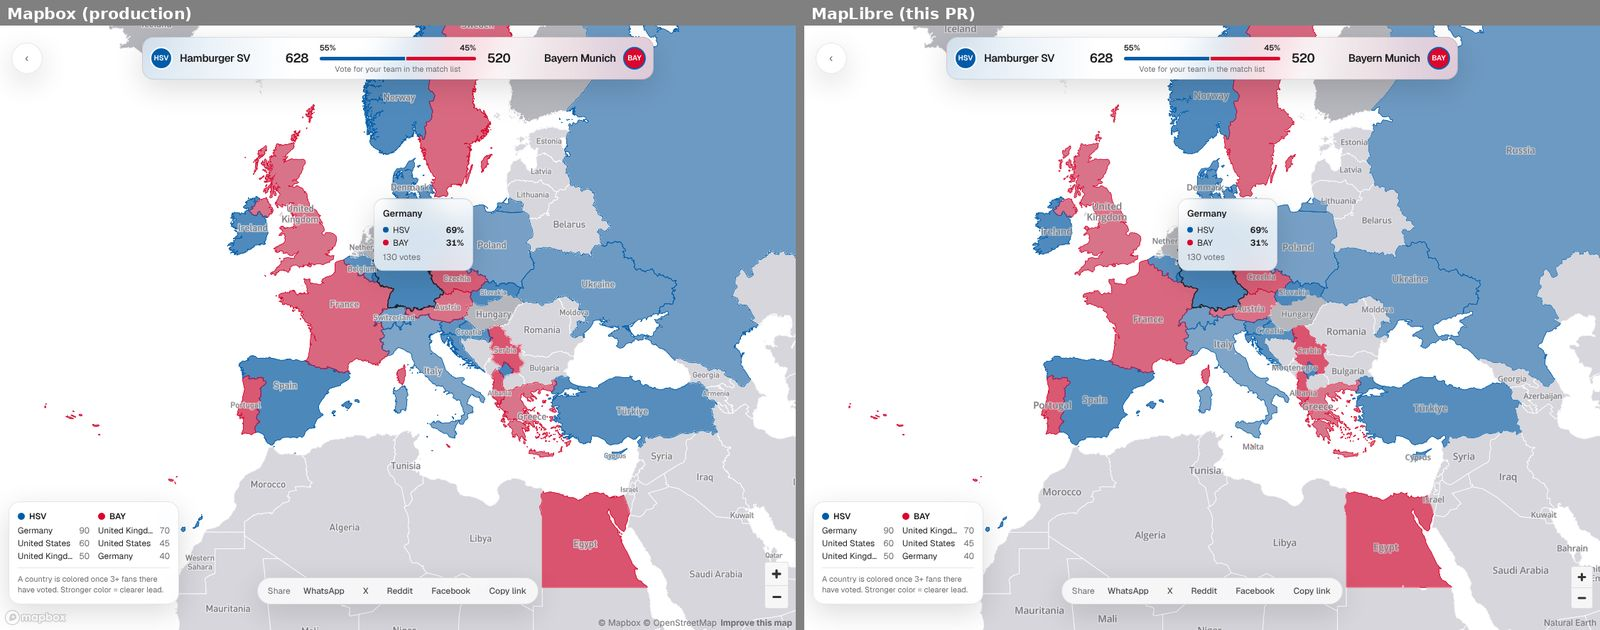
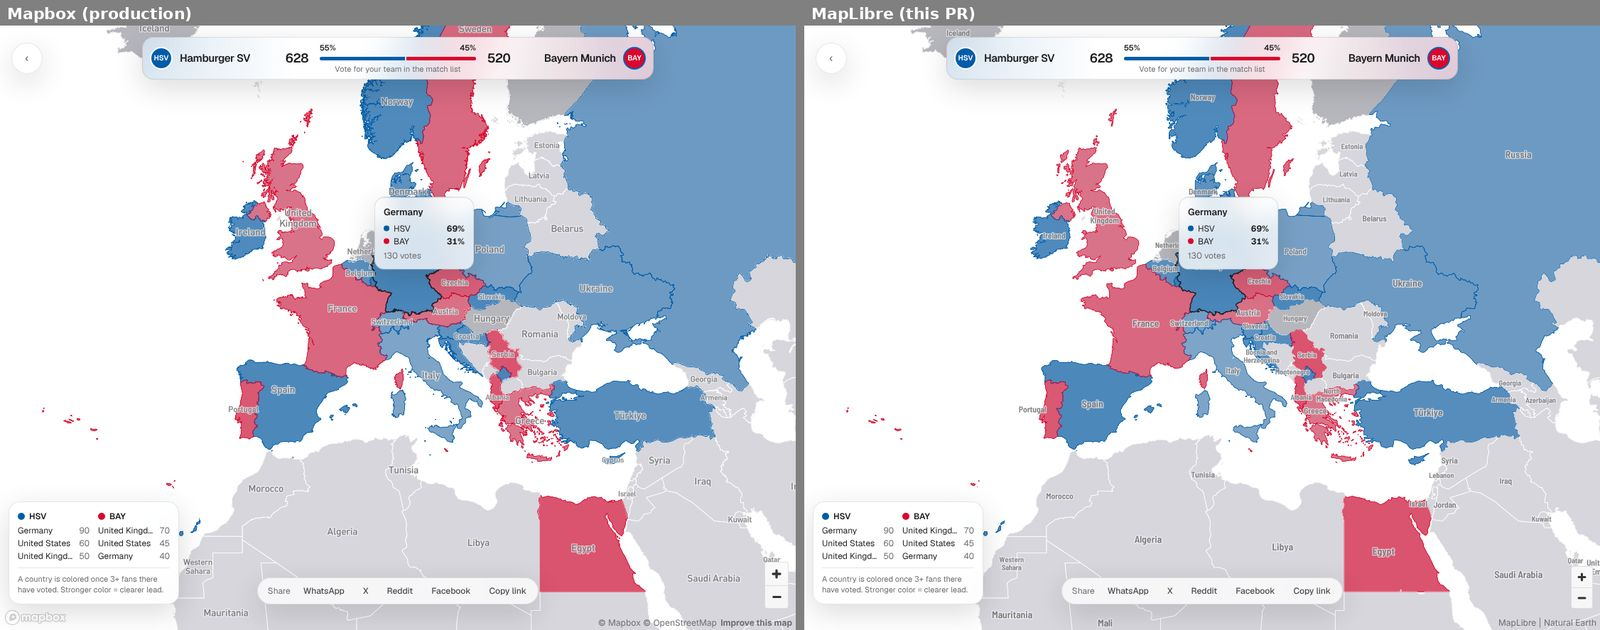
Document the MapLibre switch: measurements, label lists, screenshots, decisions
Claude-Session: https://claude.ai/code/session_01CDpvyX1Uny65vNrPLYM7iE

diff --git a/docs/maplibre-comparison/README.md b/docs/maplibre-comparison/README.md
@@ -1,19 +1,23 @@
-# Mapbox vs MapLibre: snímky z 2026-11-26
+# Mapbox vs MapLibre: snímky a nástroje
 
-Každý obrázok: vľavo **Mapbox** (produkcia, vetva `main`), vpravo **MapLibre** (vetva `maplibre-alt`, `NEXT_PUBLIC_MAP_ENGINE=maplibre`). Zápas Hamburger SV – Bayern Munich, rovnaká veľkosť okna, rovnaké priblíženie (dvojklik na to isté miesto).
+Snímky z 2026-11-26 (fáza 1 prechodu na MapLibre). Na každom obrázku je vľavo **Mapbox** (produkcia) a vpravo **MapLibre** (vetva `maplibre-default`). Zápas Hamburger SV – Bayern Munich, rovnaká veľkosť okna, rovnaké priblíženie (dvojklik na to isté miesto).
 
-- `real-votes-*` — skutočné hlasy z databázy. Pre tento zápas sú to 2 hlasy zo Slovenska, čo je pod prahom 3 (`MIN_VOTES_TO_COLOR`), takže Slovensko je šedé („nerozhodnuté“) v oboch verziách.
-- `demo-*` — **ukážkové výsledky** (54 krajín vrátane Luxemburska, Malty, Kosova, Singapuru, Monaka), podstrčené obom verziám rovnako počas snímania, aby bolo vidieť farby tímov, sýtosť podľa náskoku a malé štáty. V databáze nič nie je.
-- `home-hero-dark-light.jpg` — mapa na úvodnej stránke po animácii „rozsvietenia“: hore tmavý režim, dole svetlý; vľavo Mapbox, vpravo MapLibre.
+- `real-votes-*` — skutočné hlasy. Pre tento zápas sú to 2 hlasy zo Slovenska, pod prahom 3 (`MIN_VOTES_TO_COLOR`), takže Slovensko je v oboch verziách šedé („nerozhodnuté“).
+- `demo-*` — **ukážkové výsledky** (54 krajín vrátane malých štátov), podstrčené obom verziám rovnako len v prehliadači počas snímania. V databáze nič nie je.
+- Pohľady: celý svet, Európa, Ázia, Južná Amerika, Slovensko (s tooltipom), Luxembursko, Malta, Kosovo, Singapur; počítač (1440 × 900) a telefón (390 × 844); tmavý a svetlý režim. Plná sada (72 snímok) sa dá zopakovať nástrojmi nižšie.
+- `home-hero-dark-light.jpg` — úvodná stránka po animácii „rozsvietenia“.
+- `label-fonts.jpg` — porovnanie písiem popiskov s DIN Pro z Mapboxu (výrez pohľadu na svet, 2× zväčšené).
 
-Pohľady: celý svet, Európa, Slovensko (s tooltipom pri hoveri), Luxembursko, Malta, Kosovo, Singapur; počítač (1440×900) a telefón (390×844), tmavý a svetlý režim. Kompletná sada (56 snímok) sa dá zopakovať skriptom, ktorý je popísaný v pull requeste.
+## Nástroje (`tools/`, potrebujú Playwright s Chromiom; nie sú súčasťou appky ani `npm test`)
 
-## Ako snímky a meranie zopakovať
+| Skript | Čo robí |
+|---|---|
+| `shots.cjs <názov> <adresa> <priečinok> [demo]` | snímky všetkých pohľadov; `VIEWS=europe,malta`, `KEYS=desktop-dark` obmedzia výber |
+| `compose.py <priečinok> <výstup>` | spojí dvojice Mapbox/MapLibre vedľa seba |
+| `labels.cjs <adresa> [šírka] [výška]` | ktoré krajiny majú popisku vo svete, Európe, Ázii a Južnej Amerike a ktoré chýbajú (potrebuje `npm run dev`) |
+| `overlaps.cjs <adresa>` | či ovládacie prvky neprekrývajú popisky, na 10 veľkostiach obrazovky (`npm run dev`) |
+| `perf.cjs <názov> <adresa> [počet]` | prenesené bajty a čas do zobrazenia mapy |
+| `hero-fps.cjs <adresa> [spomalenie CPU]` | plynulosť úvodnej animácie a správanie pri obmedzenom pohybe |
+| `preview-check.cjs <adresa>` | engine, žiadne požiadavky na Mapbox, hover, hlas (zodpovedaný v prehliadači, nič sa nezapíše), prepnutie zápasu a témy, nápoveda dvoch prstov na telefóne |
 
-Skripty sú v `tools/` (potrebujú Playwright s Chromiom; nie sú súčasťou appky ani `npm test`):
-
-- `node tools/shots.cjs <mapbox|maplibre> <adresa appky> <priečinok> [demo]` — všetky pohľady; `demo` podstrčí ukážkové výsledky. Filtrovať sa dá premennými `VIEWS=europe,malta` a `KEYS=desktop-dark`.
-- `python3 tools/compose.py <priečinok so snímkami> <výstup>` — spojí dvojice vedľa seba.
-- `node tools/perf.cjs <názov> <adresa> [počet]` — prenesené bajty a čas do zobrazenia mapy.
-
-Pozor: snímanie produkcie (Mapbox) pripočíta spustenia do produkčného počítadla mapy, každý pohľad jedno.
+Chránený preview: adresa so `?_vercel_share=…`. Pozor: snímanie produkcie pri Mapboxe pripočíta spustenia do produkčného počítadla mapy (každý pohľad jedno).

diff --git a/docs/maplibre.md b/docs/maplibre.md
@@ -86,11 +86,31 @@ Chýbajúce krajiny ležia v najhustejšej časti Afriky a v Strednej Ázii, kde
 
 ## Výkon (meranie 2026-11-26)
 
-{{PERF}}
+Studené načítanie stránky zápasu (prázdna cache), 5 meraní, medián; všetko na Verceli, ten istý prehliadač a sieť; bajty prenesené (po kompresii) vrátane požiadaviek web workerov. Nástroje: `docs/maplibre-comparison/tools/perf.cjs` a `hero-fps.cjs`.
+
+| | Mapbox (produkcia) | MapLibre pred (PR #2) | **MapLibre teraz** |
+|---|---|---|---|
+| JavaScript | 757 KB | 513 KB | 516 KB |
+| Mapové dáta | 424 KB | 613 KB | **331 KB** |
+| Písmo názvov | 128 KB | 40 KB | 45 KB |
+| Ostatné | 113 KB | 117 KB | 117 KB |
+| **Spolu** | **1 422 KB** | **1 283 KB** | **1 009 KB** |
+| Ďalšia stránka / návšteva (dáta mapy) | podľa cache Mapboxu | overenie so serverom | **0 B** |
+| Čas do zobrazenia mapy (medián, rozptyl) | 2,41 s (2,3–4,2) | 2,56 s (2,3–3,6) | 2,83 s (2,7–3,7) |
+| Úvodná animácia pri 4× spomalenom CPU | 18 snímok/s, najdlhšia 350 ms | — | 14 snímok/s, najdlhšia 133 ms |
+
+- MapLibre stiahne o 29 % menej než Mapbox. Pri opakovanej návšteve nesťahuje dáta mapy vôbec.
+- Čas do zobrazenia je o ~0,3–0,4 s dlhší než pri Mapboxe. MapLibre musí pred prvým vykreslením rozrezať tvary celého sveta na dlaždice, kým Mapbox dostane hotové dlaždice zo servera. Rozdiely sú menšie než rozptyl medzi meraniami. Zlepšenia v tejto práci: GeoJSON ide do workera ako text (blob URL), nie kopírovaním objektu (~100 ms na hlavnom vlákne), a predvolené zjednodušovanie MapLibre pri malom priblížení (s vypnutým bolo zobrazenie o ~20 % pomalšie).
+- Úvodná animácia: priemerne o niečo menej snímok, ale rovnomernejšie (najdlhšia snímka 133 ms oproti 350 ms pri Mapboxe). Úvodná mapa má hrubšie tvary (pevný pohľad na svet, rozdiel nie je vidieť) a hotové krajiny sa už neprekresľujú. Absolútne čísla sú nízke, lebo testovacie prostredie kreslí WebGL softvérovo; porovnávať treba len medzi sebou.
 
 ## Známe rozdiely oproti Mapboxu
 
-{{DIFFS}}
+- **Detail pri veľkom priblížení:** od zoomu ~6 (Luxembursko, okolie Singapuru) sú hranice veľkých krajín a ich malé ostrovy jednoduchšie než v Mapboxe; preto je najväčšie priblíženie 7. Malé štáty samotné (Luxembursko, Malta s Gozom, Singapur, Kosovo, Lichtenštajnsko, Monako) majú tvar v poriadku. Pobrežie Nórska a Grónska je pri priblížení menej členité.
+- **Popisky:** viac krajín s popiskou, ale pri pohľade na svet menšie písmo (8–9 px pri krajinách pod 500 000 km²) a niektoré názvy posunuté vedľa svojej krajiny. Mapbox ukáže menej názvov, väčšie.
+- **Písmo:** Barlow Semi Condensed SemiBold namiesto DIN Pro (pozri vyššie). Názvy podľa `Intl` („Türkiye“, „Czechia“, „DR Congo“).
+- **Atribúcia:** „MapLibre | Natural Earth“ namiesto loga Mapbox a „© Mapbox © OpenStreetMap“.
+- **Telefón:** pri pohľade na celý svet bez názvov krajín (rovnako ako Mapbox).
+- **Hranice:** rovnaký „US“ pohľad; drobné rozdiely v priebehu hraníc (iný zdroj dát), v príslušnosti kontrolovaných sporných území žiadne.
 
 ## Ako aktualizovať dáta
 
